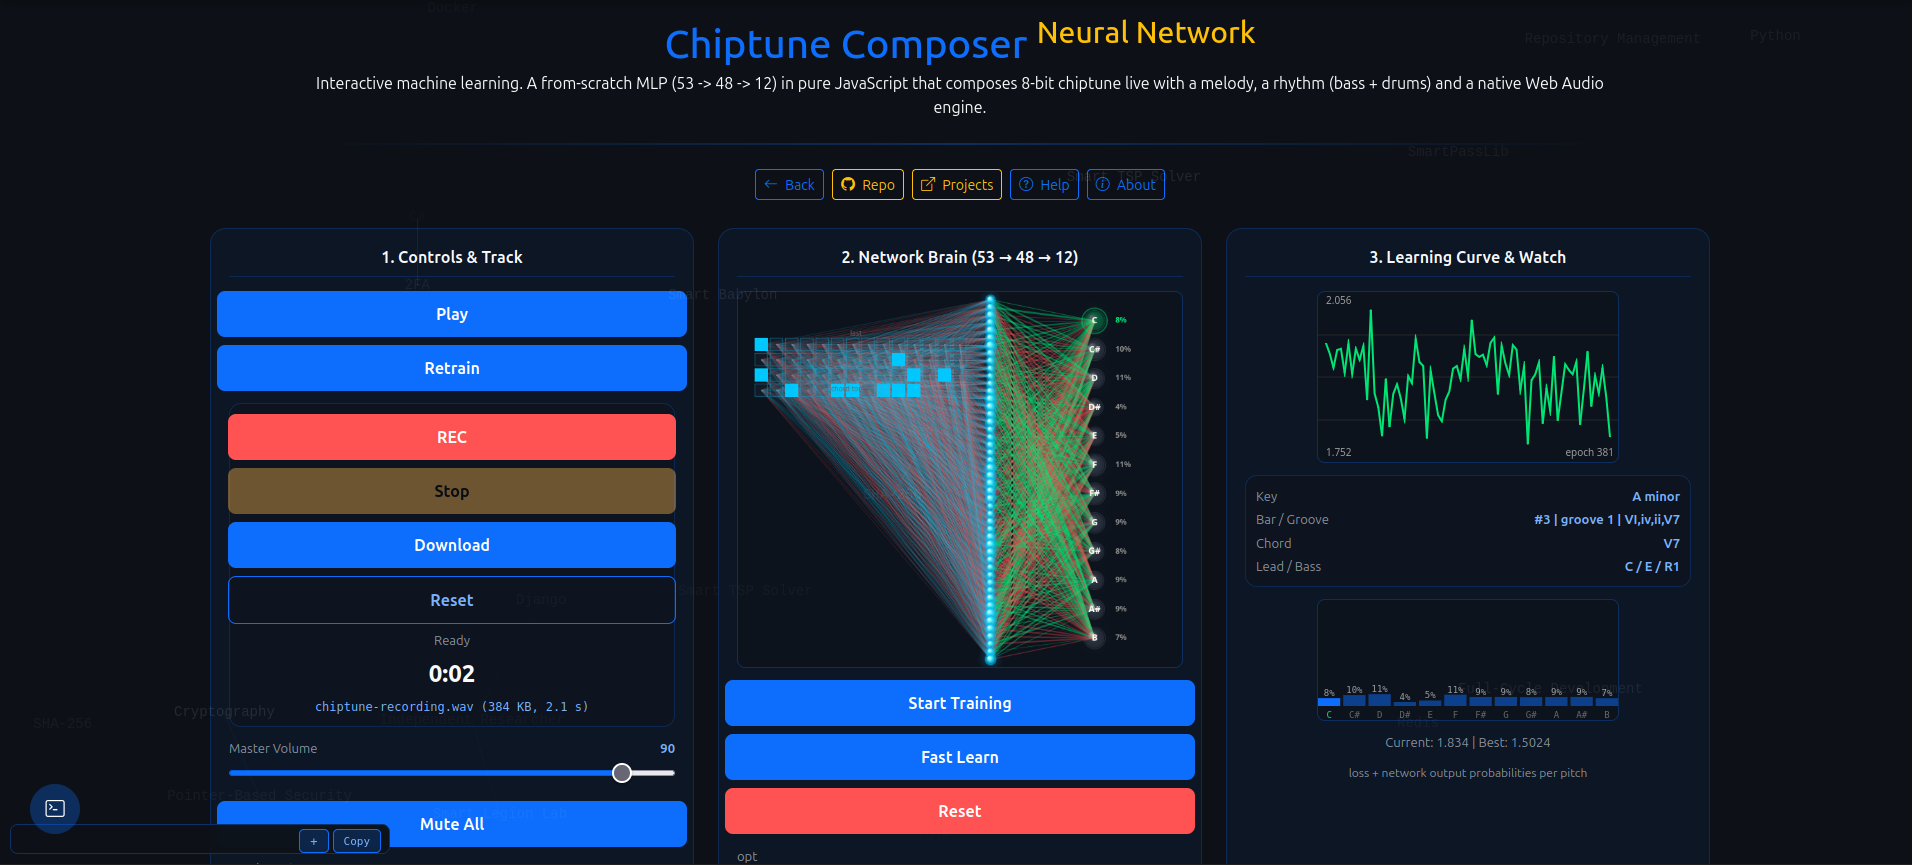
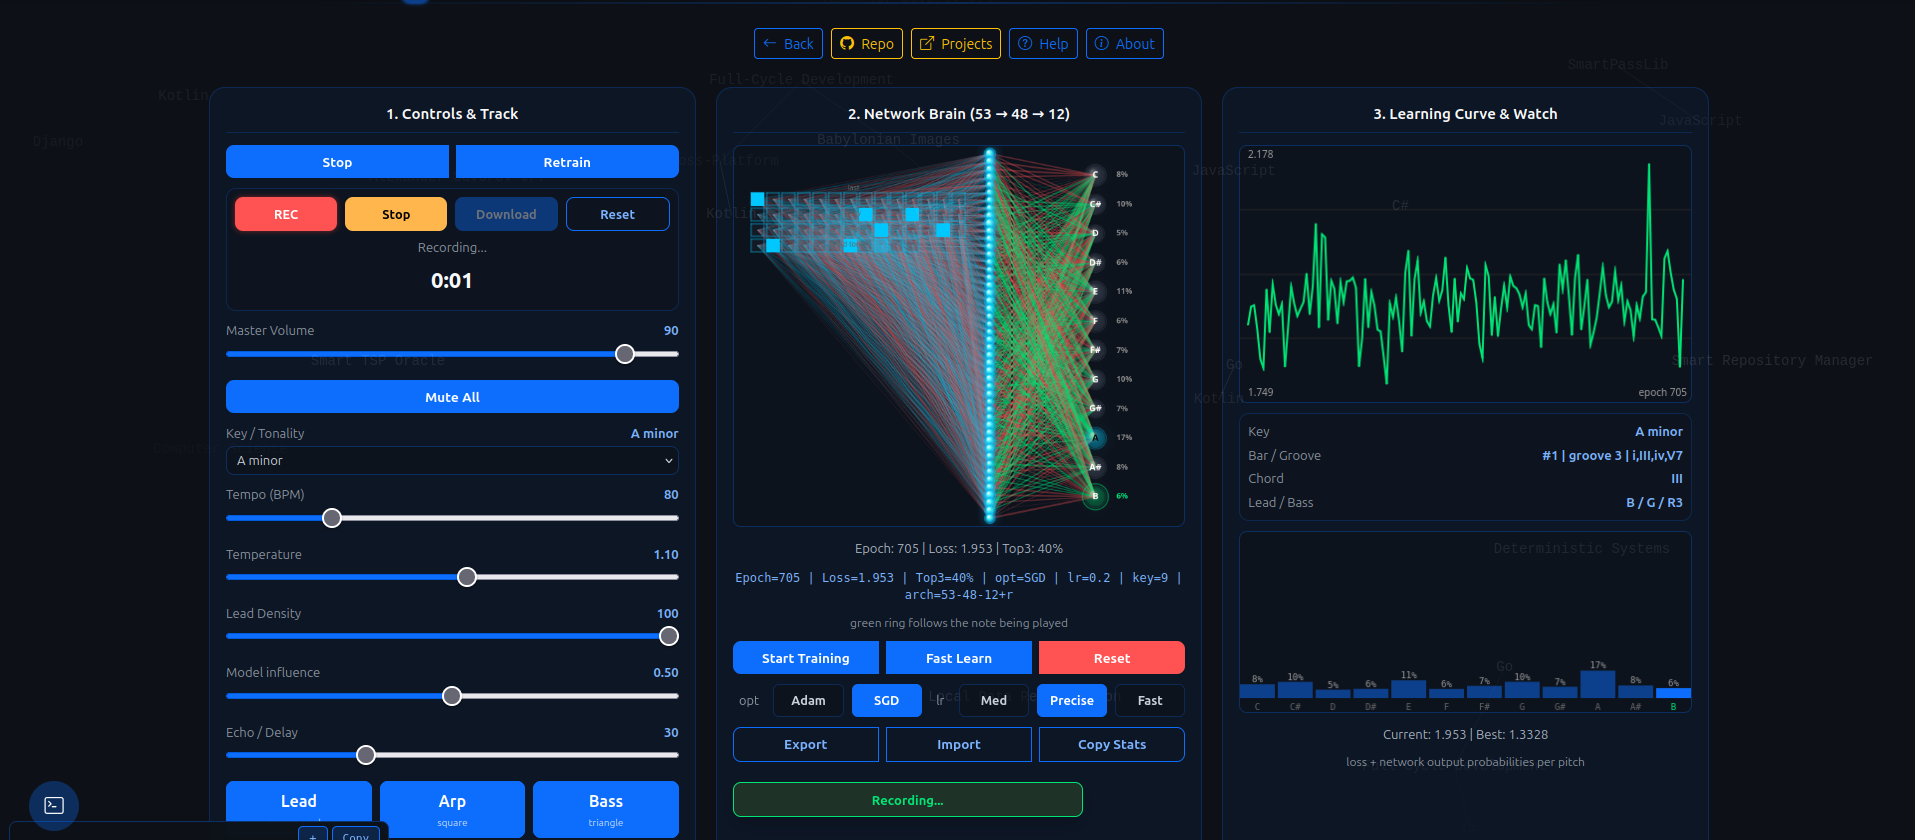
feat: improve chiptune-composer-neural-network.html

diff --git a/css/chiptune-composer-neural-network.css b/css/chiptune-composer-neural-network.css
@@ -13,7 +13,7 @@
 .app-scope .workspace {
     display: grid;
     grid-template-columns: repeat(3, minmax(0, 1fr));
-    gap: 24px;
+    gap: 20px;
     width: 100%;
     max-width: 1500px;
     align-items: stretch;
@@ -22,15 +22,15 @@
     background: rgba(13, 110, 253, 0.06);
     border: 1px solid rgba(13, 110, 253, 0.22);
     border-radius: 16px;
-    padding: 18px;
+    padding: 16px;
     display: flex;
     flex-direction: column;
-    gap: 12px;
+    gap: 10px;
     min-width: 0;
 }
 .app-scope .panel h3 {
     margin: 0 0 2px;
-    font-size: 16px;
+    font-size: 15px;
     font-weight: 700;
     color: #f8f9fa;
     text-align: center;
@@ -43,6 +43,12 @@
     gap: 8px;
     justify-content: center;
     align-items: center;
+}
+.app-scope .btn-group {
+    width: 100%;
+}
+.app-scope .btn-group .btn {
+    flex: 1 1 0;
 }
 .app-scope .canvas-area {
     display: flex;
@@ -57,10 +63,17 @@
     height: auto;
     display: block;
 }
+.app-scope #netCanvas {
+    width: 640px;
+    max-width: 100%;
+}
+.app-scope #trackCanvas, .app-scope #lossCanvas, .app-scope #distCanvas {
+    width: 100%;
+}
 .app-scope button {
     border: none;
     border-radius: 8px;
-    font-weight: 700;
+    font-weight: 600;
     cursor: pointer;
     user-select: none;
     font-family: inherit;
@@ -70,10 +83,11 @@
     cursor: not-allowed;
 }
 .app-scope button:active {
-    transform: scale(.96);
+    transform: scale(.97);
 }
 .app-scope .btn {
-    padding: 11px 16px;
+    padding: .4rem .6rem;
+    font-size: .85rem;
 }
 .app-scope .btn-primary {
     background: #0d6efd;
@@ -95,53 +109,55 @@
 .app-scope .btn-info:hover {
     background: rgba(13, 110, 253, 0.15);
 }
+.app-scope .btn-group > .btn:first-child {
+    border-top-left-radius: 8px;
+    border-bottom-left-radius: 8px;
+}
+.app-scope .btn-group > .btn:last-child {
+    border-top-right-radius: 8px;
+    border-bottom-right-radius: 8px;
+}
+.app-scope .btn-group > .btn:not(:first-child):not(:last-child) {
+    border-radius: 0;
+}
 .app-scope .opt-btn, .app-scope .lr-btn {
     background: rgba(13, 17, 23, 0.6);
     color: #c9d1d9;
     border: 1px solid rgba(13, 110, 253, 0.25);
     border-radius: 6px;
-    padding: 6px 12px;
-    font-size: 13px;
+    padding: .35rem .6rem;
+    font-size: .8rem;
+    flex: 1 1 0;
 }
 .app-scope .opt-btn.active, .app-scope .lr-btn.active {
     background: #0d6efd;
     color: #fff;
 }
 .app-scope .lbl {
+    display: inline-flex;
+    align-items: center;
+    padding: 0 .4rem;
     color: #8b949e;
-    font-size: 13px;
+    font-size: .8rem;
+    white-space: nowrap;
 }
 .app-scope .recbox {
     border: 1px solid rgba(13, 110, 253, 0.22);
-    border-radius: 12px;
-    padding: 10px;
+    border-radius: 10px;
+    padding: 8px;
     background: rgba(13, 17, 23, 0.4);
     display: flex;
     flex-direction: column;
     gap: 6px;
 }
-.app-scope .rec-status {
-    font-size: 13px;
-    color: #8b949e;
-    text-align: center;
-}
-.app-scope .rec-time {
-    font-size: 24px;
-    font-weight: 800;
-    color: #f8f9fa;
-    text-align: center;
-    font-variant-numeric: tabular-nums;
-}
-.app-scope .rec-file {
-    font-size: 12px;
-    color: #7ab3ff;
-    text-align: center;
-    font-family: monospace;
+.app-scope .rec-btn, .app-scope .stop-btn, .app-scope .dl-btn, .app-scope .reset-btn {
+    flex: 1 1 0;
+    padding: .4rem .5rem;
+    font-size: .8rem;
 }
 .app-scope .rec-btn {
     background: #ff5252;
     color: #fff;
-    padding: 11px 18px;
 }
 .app-scope .rec-btn.recording {
     animation: recblink 1s infinite;
@@ -153,25 +169,40 @@
 .app-scope .stop-btn {
     background: #ffb74d;
     color: #000;
-    padding: 11px 18px;
 }
 .app-scope .dl-btn {
     background: #0d6efd;
     color: #fff;
-    padding: 11px 18px;
 }
 .app-scope .reset-btn {
     background: transparent;
     color: #7ab3ff;
     border: 1px solid #0d6efd;
-    padding: 11px 18px;
+}
+.app-scope .rec-status {
+    font-size: 13px;
+    color: #8b949e;
+    text-align: center;
+}
+.app-scope .rec-time {
+    font-size: 22px;
+    font-weight: 800;
+    color: #f8f9fa;
+    text-align: center;
+    font-variant-numeric: tabular-nums;
+}
+.app-scope .rec-file {
+    font-size: 11px;
+    color: #7ab3ff;
+    text-align: center;
+    font-family: monospace;
 }
 .app-scope .slider label {
     display: flex;
     justify-content: space-between;
     font-size: 13px;
     color: #8b949e;
-    margin-bottom: 4px;
+    margin-bottom: 3px;
 }
 .app-scope .slider label b {
     color: #7ab3ff;
@@ -183,7 +214,7 @@
 }
 .app-scope select {
     width: 100%;
-    padding: 8px 10px;
+    padding: 6px 10px;
     background: rgba(13, 17, 23, 0.6);
     color: #c9d1d9;
     border: 1px solid rgba(13, 110, 253, 0.3);
@@ -201,13 +232,13 @@
     color: #7ab3ff;
     border: 1px solid rgba(13, 110, 253, 0.3);
     border-radius: 8px;
-    padding: 9px;
+    padding: 7px;
     display: flex;
     flex-direction: column;
 }
 .app-scope .mute .d {
     color: #8b949e;
-    font-size: 11px;
+    font-size: 10px;
     font-weight: 400;
     margin-top: 2px;
 }
@@ -221,9 +252,9 @@
 }
 .app-scope .legend {
     display: flex;
-    gap: 12px;
+    gap: 10px;
     justify-content: center;
-    font-size: 12px;
+    font-size: 11px;
     color: #8b949e;
     flex-wrap: wrap;
 }
@@ -243,7 +274,7 @@
     gap: 6px;
     align-items: flex-end;
     justify-content: center;
-    height: 40px;
+    height: 36px;
 }
 .app-scope .bar {
     width: 100%;
@@ -272,8 +303,8 @@
 }
 .app-scope .status-box {
     border: 1px solid rgba(13, 110, 253, 0.22);
-    border-radius: 12px;
-    padding: 10px;
+    border-radius: 10px;
+    padding: 8px;
     background: rgba(13, 17, 23, 0.4);
     display: flex;
     flex-direction: column;
@@ -294,9 +325,10 @@
 }
 .app-scope .stats {
     font-size: 13px;
-    color: #8b949e;
+    color: #aab4bf;
     text-align: center;
     line-height: 1.4;
+    margin-top: 2px;
 }
 .app-scope .stats.raw {
     color: #7ab3ff;
@@ -425,9 +457,5 @@
     }
     .app-scope .mutes {
         grid-template-columns: repeat(2, 1fr);
-    }
-    .app-scope button {
-        padding: 10px 12px;
-        font-size: 14px;
     }
 }

diff --git a/interactive/chiptune-composer-neural-network.html b/interactive/chiptune-composer-neural-network.html
@@ -150,12 +150,12 @@
         <div class="workspace">
             <div class="panel">
                 <h3>1. Controls & Track</h3>
-                <div class="row">
+                <div class="btn-group btn-group-sm" role="group" aria-label="Playback controls">
                     <button type="button" class="btn btn-primary" id="playBtn" onclick="togglePlay()">Play</button>
                     <button type="button" class="btn btn-green" onclick="retrainNow()">Retrain</button>
                 </div>
                 <div class="recbox">
-                    <div class="row">
+                    <div class="btn-group btn-group-sm" role="group" aria-label="Recording controls">
                         <button type="button" class="rec-btn" id="recBtn" onclick="recStart()">REC</button>
                         <button type="button" class="stop-btn" id="recStopBtn" onclick="stopWav()" disabled>Stop</button>
                         <button type="button" class="dl-btn" id="recDlBtn" onclick="downloadWav()" disabled>Download</button>
@@ -169,9 +169,7 @@
                     <label>Master Volume <b id="volVal">90</b></label>
                     <input type="range" id="volSlider" min="0" max="100" value="90" oninput="setMaster()">
                 </div>
-                <div class="row">
-                    <button type="button" class="btn btn-primary" id="muteAllBtn" onclick="toggleMaster()">Mute All</button>
-                </div>
+                <button type="button" class="btn btn-primary btn-sm w-100" id="muteAllBtn" onclick="toggleMaster()">Mute All</button>
                 <div class="slider">
                     <label>Key / Tonality <b id="keyName">A minor</b></label>
                     <select id="keySelect" onchange="setKey(+this.value)">
@@ -227,12 +225,15 @@
                 <div class="canvas-area">
                     <canvas id="netCanvas" width="640" height="540"></canvas>
                 </div>
-                <div class="row">
+                <div class="stats" id="trainStats">Epoch: 0 | Loss: - | Top3: -</div>
+                <div class="stats raw" id="rawStats" title="Click to copy" onclick="copyStats()"></div>
+                <div class="hint">green ring follows the note being played</div>
+                <div class="btn-group btn-group-sm" role="group" aria-label="Training controls">
                     <button type="button" class="btn btn-primary" id="trainBtn" onclick="toggleTrain()">Start Training</button>
                     <button type="button" class="btn btn-green" onclick="trainEpochs(120)">Fast Learn</button>
                     <button type="button" class="btn btn-red" onclick="resetNetwork()">Reset</button>
                 </div>
-                <div class="row">
+                <div class="btn-group btn-group-sm" role="group" aria-label="Optimizer and learning rate">
                     <span class="lbl">opt</span>
                     <button type="button" class="opt-btn" data-opt="adam" onclick="setOpt('adam',this)">Adam</button>
                     <button type="button" class="opt-btn active" data-opt="sgd" onclick="setOpt('sgd',this)">SGD</button>
@@ -241,15 +242,12 @@
                     <button type="button" class="lr-btn active" data-lr="0.2" onclick="setLR(0.2,this)">Precise</button>
                     <button type="button" class="lr-btn" data-lr="0.6" onclick="setLR(0.6,this)">Fast</button>
                 </div>
-                <div class="row">
+                <div class="btn-group btn-group-sm" role="group" aria-label="Model controls">
                     <button type="button" class="btn btn-info" onclick="exportModel()">Export</button>
                     <button type="button" class="btn btn-info" onclick="importModel()">Import</button>
-                    <input type="file" id="modelFile" accept="application/json" style="display:none" onchange="onImportFile(event)">
                     <button type="button" class="btn btn-info" onclick="copyStats()">Copy Stats</button>
                 </div>
-                <div class="stats" id="trainStats">Epoch: 0 | Loss: - | Top3: -</div>
-                <div class="stats raw" id="rawStats" title="Click to copy" onclick="copyStats()"></div>
-                <div class="hint">green ring follows the note being played</div>
+                <input type="file" id="modelFile" accept="application/json" style="display:none" onchange="onImportFile(event)">
                 <div class="toast" id="toast"></div>
             </div>
             <div class="panel">

diff --git a/js/chiptune-composer-neural-network.js b/js/chiptune-composer-neural-network.js
@@ -347,6 +347,22 @@ var netCanvas = document.getElementById('netCanvas'), nCtx = netCanvas.getContex
 var lossCanvas = document.getElementById('lossCanvas'), lCtx = lossCanvas.getContext('2d');
 var trackCanvas = document.getElementById('trackCanvas'), tCtx = trackCanvas.getContext('2d');
 var distCanvas = document.getElementById('distCanvas'), dCtx = distCanvas ? distCanvas.getContext('2d') : null;
+var DPR = window.devicePixelRatio || 1;
+var NET_W = netCanvas.width, NET_H = netCanvas.height;
+var fitTimer = 0;
+function fitCanvases() {
+    var r;
+    netCanvas.width = Math.round(NET_W * DPR);
+    netCanvas.height = Math.round(NET_H * DPR);
+    nCtx.setTransform(DPR, 0, 0, DPR, 0, 0);
+    r = trackCanvas.getBoundingClientRect();
+    if (r.width > 0) { trackCanvas.width = Math.round(r.width * DPR); trackCanvas.height = Math.round(r.width * 220 / 620 * DPR); }
+    r = lossCanvas.getBoundingClientRect();
+    if (r.width > 0) { lossCanvas.width = Math.round(r.width * DPR); lossCanvas.height = Math.round(r.width * 170 / 300 * DPR); }
+    r = distCanvas.getBoundingClientRect();
+    if (r.width > 0) { distCanvas.width = Math.round(r.width * DPR); distCanvas.height = Math.round(r.width * 120 / 300 * DPR); }
+}
+window.addEventListener('resize', function () { clearTimeout(fitTimer); fitTimer = setTimeout(fitCanvases, 60); });
 var barsWrap = document.getElementById('barsWrap'), barEls = [];
 (function () {
     for (var i = 0; i < 6; i++) { var d = document.createElement('div'); d.className = 'bar'; d.setAttribute('data-ch', i); d.innerHTML = '<i></i>'; barsWrap.appendChild(d); }
@@ -419,12 +435,12 @@ function drawOutputOrb(x, y, v, baseR, phase, col, winner) {
     }
 }
 function drawNetwork() {
-    nCtx.clearRect(0, 0, netCanvas.width, netCanvas.height);
+    nCtx.clearRect(0, 0, NET_W, NET_H);
     var isMobile = window.innerWidth <= BREAKPOINT, cols = 14, rows = 4, cell = isMobile ? 16 : 19, gap = 3, gx0 = 24, gy0 = 66, inPts = [];
     for (var r = 0; r < rows; r++) for (var c = 0; c < cols; c++) { var idx = r * cols + c; if (idx >= IN) break; inPts.push({ x: gx0 + c * (cell + gap), y: gy0 + r * (cell + gap), act: nn.lastIn[idx] }); }
-    var hidX = gx0 + cols * (cell + gap) + 32, hidStep = netCanvas.height / (HID + 1), hidY = [];
+    var hidX = gx0 + cols * (cell + gap) + 32, hidStep = NET_H / (HID + 1), hidY = [];
     for (var i = 0; i < HID; i++) hidY.push(hidStep * (i + 1));
-    var outX = hidX + 150, outStep = netCanvas.height / (OUT + 1), wMax = 0.001;
+    var outX = hidX + 150, outStep = NET_H / (OUT + 1), wMax = 0.001;
     for (var i = 0; i < HID; i++) for (var j = 0; j < IN; j++) { var aw = Math.abs(nn.wIH[i][j]); if (aw > wMax) wMax = aw; }
     for (var k = 0; k < OUT; k++) for (var j = 0; j < HID; j++) { var aw2 = Math.abs(nn.wHO[k][j]); if (aw2 > wMax) wMax = aw2; }
     for (var i = 0; i < HID; i++) for (var j = 0; j < inPts.length; j++) drawSynapse({ x: inPts[j].x + cell / 2, y: inPts[j].y + cell / 2 }, { x: hidX, y: hidY[i] }, nn.wIH[i][j], 'rgba(0,210,255,0.14)', 'rgba(255,82,82,0.14)', 1.8, wMax);
@@ -822,4 +838,5 @@ function startupTrain() {
 }
 updateRecUI();
 startupTrain();
+fitCanvases();
 loop();
